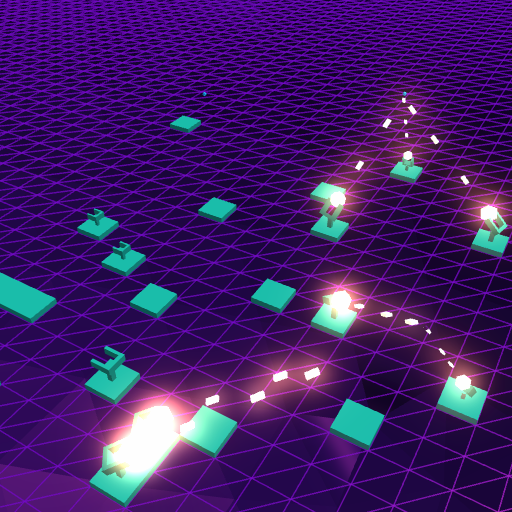
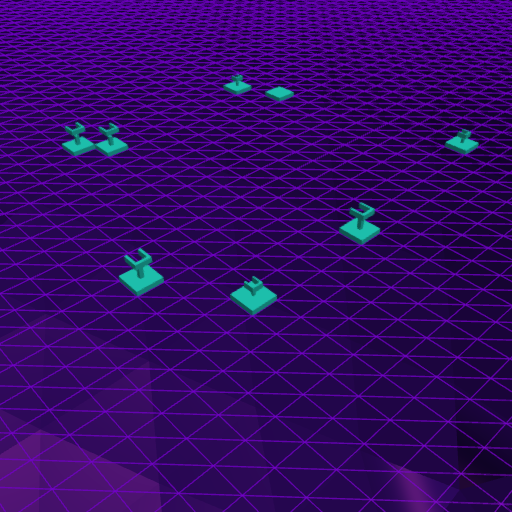
new screens

diff --git a/src/js/main/cameras.ts b/src/js/main/cameras.ts
@@ -4,7 +4,6 @@ import {
   Vector3,
   Tools,
   Engine,
-  FollowCamera
 } from "babylonjs";
 import {
   mapGlobals,
@@ -17,26 +16,14 @@ import randomNumberRange from "./randomNumberRange";
 
 function cameras(scene: Scene, canvas: HTMLCanvasElement, engine: Engine) {
   // Camera1
-  const camera = new FollowCamera(
+  const camera = new ArcRotateCamera(
     "follow1",
-    new BABYLON.Vector3(0, 10, -10),
+    Math.PI / 4,
+    Math.PI / 2.15,
+    mapGlobals.size / 5,
+    Vector3.Zero(),
     scene
-  ) as FollowCamera;
-
-  //The goal distance of camera from target
-  camera.radius = 120;
-
-  // The goal height of camera above local origin (centre) of target
-  camera.heightOffset = 10;
-
-  // The goal rotation of camera around local origin (centre) of target in x y plane
-  camera.rotationOffset = 0;
-
-  //Acceleration of camera in moving from current to goal position
-  camera.cameraAcceleration = 0.003;
-
-  //The speed at which acceleration is halted
-  camera.maxCameraSpeed = 8;
+  ) as ArcRotateCamera;
 
   // Camera 2
   const camera2 = new ArcRotateCamera(
@@ -49,33 +36,21 @@ function cameras(scene: Scene, canvas: HTMLCanvasElement, engine: Engine) {
   ) as ArcRotateCamera;
 
   // Camera4
-  const camera4 = new FollowCamera(
-    "follow2",
-    new BABYLON.Vector3(0, 10, -50),
+  const camera4 = new ArcRotateCamera(
+    "arcFollow1",
+    Math.PI / 6,
+    Math.PI / 3.5,
+    mapGlobals.size / 6,
+    Vector3.Zero(),
     scene
-  ) as FollowCamera;
-
-  //The goal distance of camera from target
-  camera4.radius = 120;
-
-  // The goal height of camera above local origin (centre) of target
-  camera4.heightOffset = 10;
-
-  // The goal rotation of camera around local origin (centre) of target in x y plane
-  camera4.rotationOffset = 0;
-
-  //Acceleration of camera in moving from current to goal position
-  camera4.cameraAcceleration = 0.003;
-
-  //The speed at which acceleration is halted
-  camera4.maxCameraSpeed = 8;
+  ) as ArcRotateCamera;
 
   // Camera 3
   const camera3 = new ArcRotateCamera(
     "closeup",
     Math.PI / 1,
-    Math.PI / 2.1,
-    mapGlobals.size / 12,
+    Math.PI / 2.15,
+    mapGlobals.size / 8,
     Vector3.Zero(),
     scene
   ) as ArcRotateCamera;
@@ -86,21 +61,6 @@ function cameras(scene: Scene, canvas: HTMLCanvasElement, engine: Engine) {
   camera3.attachControl(canvas, true);
   camera4.attachControl(canvas, true);
 
-  // Upper Beta Limit
-  camera2.upperBetaLimit = Math.PI / 2.01;
-  camera3.upperBetaLimit = Math.PI / 2.01;
-
-  // Upper Radius Limit
-  camera2.upperRadiusLimit = mapGlobals.size / 2;
-  camera3.upperRadiusLimit = mapGlobals.size / 2;
-
-  // Lower Radius Limit
-  camera2.lowerRadiusLimit = mapGlobals.size / 12;
-  camera3.lowerRadiusLimit = mapGlobals.size / 12;
-
-  camera2.panningDistanceLimit = mapGlobals.size / 5;
-  camera3.panningDistanceLimit = mapGlobals.size / 5;
-
   const rotateCamera = camera => {
     scene.registerBeforeRender(() => {
       camera.alpha += Math.PI / (360 * mapGlobals.rotationSpeedMultiplier);
@@ -110,8 +70,10 @@ function cameras(scene: Scene, canvas: HTMLCanvasElement, engine: Engine) {
   };
 
   if (mapGlobals.rotateCameras) {
+    rotateCamera(camera);
     rotateCamera(camera2);
     rotateCamera(camera3);
+    rotateCamera(camera4);
   }
 
   const allCameras = scene.cameras;
@@ -127,34 +89,11 @@ function cameras(scene: Scene, canvas: HTMLCanvasElement, engine: Engine) {
         enemyGlobals.allEnemies.length > 1 &&
         towerGlobals.allTowers.length > 1
       ) {
-        switch (allCameras[0].name) {
-          case "follow1":
-            const followCamera1 = scene.getCameraByName(
-              "follow1"
-            ) as FollowCamera;
-            followCamera1.lockedTarget =
-              enemyGlobals.allEnemies[
-                randomNumberRange(0, enemyGlobals.allEnemies.length)
-              ];
-            break;
-          case "follow2":
-            const followCamera2 = scene.getCameraByName(
-              "follow2"
-            ) as FollowCamera;
-            followCamera2.lockedTarget =
-              enemyGlobals.allEnemies[
-                randomNumberRange(0, enemyGlobals.allEnemies.length)
-              ];
-            break;
-
-          default:
-            const rotateCamera = allCameras[0] as ArcRotateCamera;
-            rotateCamera.lockedTarget =
-              towerGlobals.allTowers[
-                randomNumberRange(0, towerGlobals.allTowers.length)
-              ];
-            break;
-        }
+        const rotateCamera = allCameras[0] as ArcRotateCamera;
+        rotateCamera.lockedTarget =
+          enemyGlobals.allEnemies[
+            randomNumberRange(0, enemyGlobals.allEnemies.length)
+          ];
       } else {
         const previousCamera = allCameras.shift();
         allCameras.push(previousCamera);

diff --git a/node/puppeteer.js b/node/puppeteer.js
@@ -38,7 +38,7 @@ const puppeteer = require("puppeteer");
           })
           .catch(err => Error(err));
         await browser.close();
-      }, 300);
-    }, 300);
-  }, 6200);
+      }, 4100);
+    }, 2100);
+  }, 8200);
 })();

diff --git a/src/js/main/globalVariables.ts b/src/js/main/globalVariables.ts
@@ -83,7 +83,6 @@ const renderGlobals = {
   screenshot: false
 };
 
-const allMaterials = {};
 
 //@ts-ignore
 window.globals = {

diff --git a/README.md b/README.md
@@ -4,7 +4,7 @@
 
 When loaded, three cameras rotate in an interactive orbit around a plane where towers are randomly placed. Enemies will fall from the sky in the unoccupied areas and will make their way to the center.
 
-![alt](https://raw.githubusercontent.com/xtreemze/defend/master/release/screenshot1.png)
+![Defend](https://raw.githubusercontent.com/xtreemze/defend/master/release/screenshot.png)
 
 ## Towers
 
@@ -12,7 +12,7 @@ When loaded, three cameras rotate in an interactive orbit around a plane where t
 2.  A turret that has the same capabilities as #1 but with the added turret which shoots projectiles able to reduce the hitpoints of the enemy.
 3.  A more powerful variant of #2
 
-![alt](https://raw.githubusercontent.com/xtreemze/defend/master/release/screenshot3.png)
+![Defend](https://raw.githubusercontent.com/xtreemze/defend/master/release/screenshot3.png)
 
 ## Enemies
 
